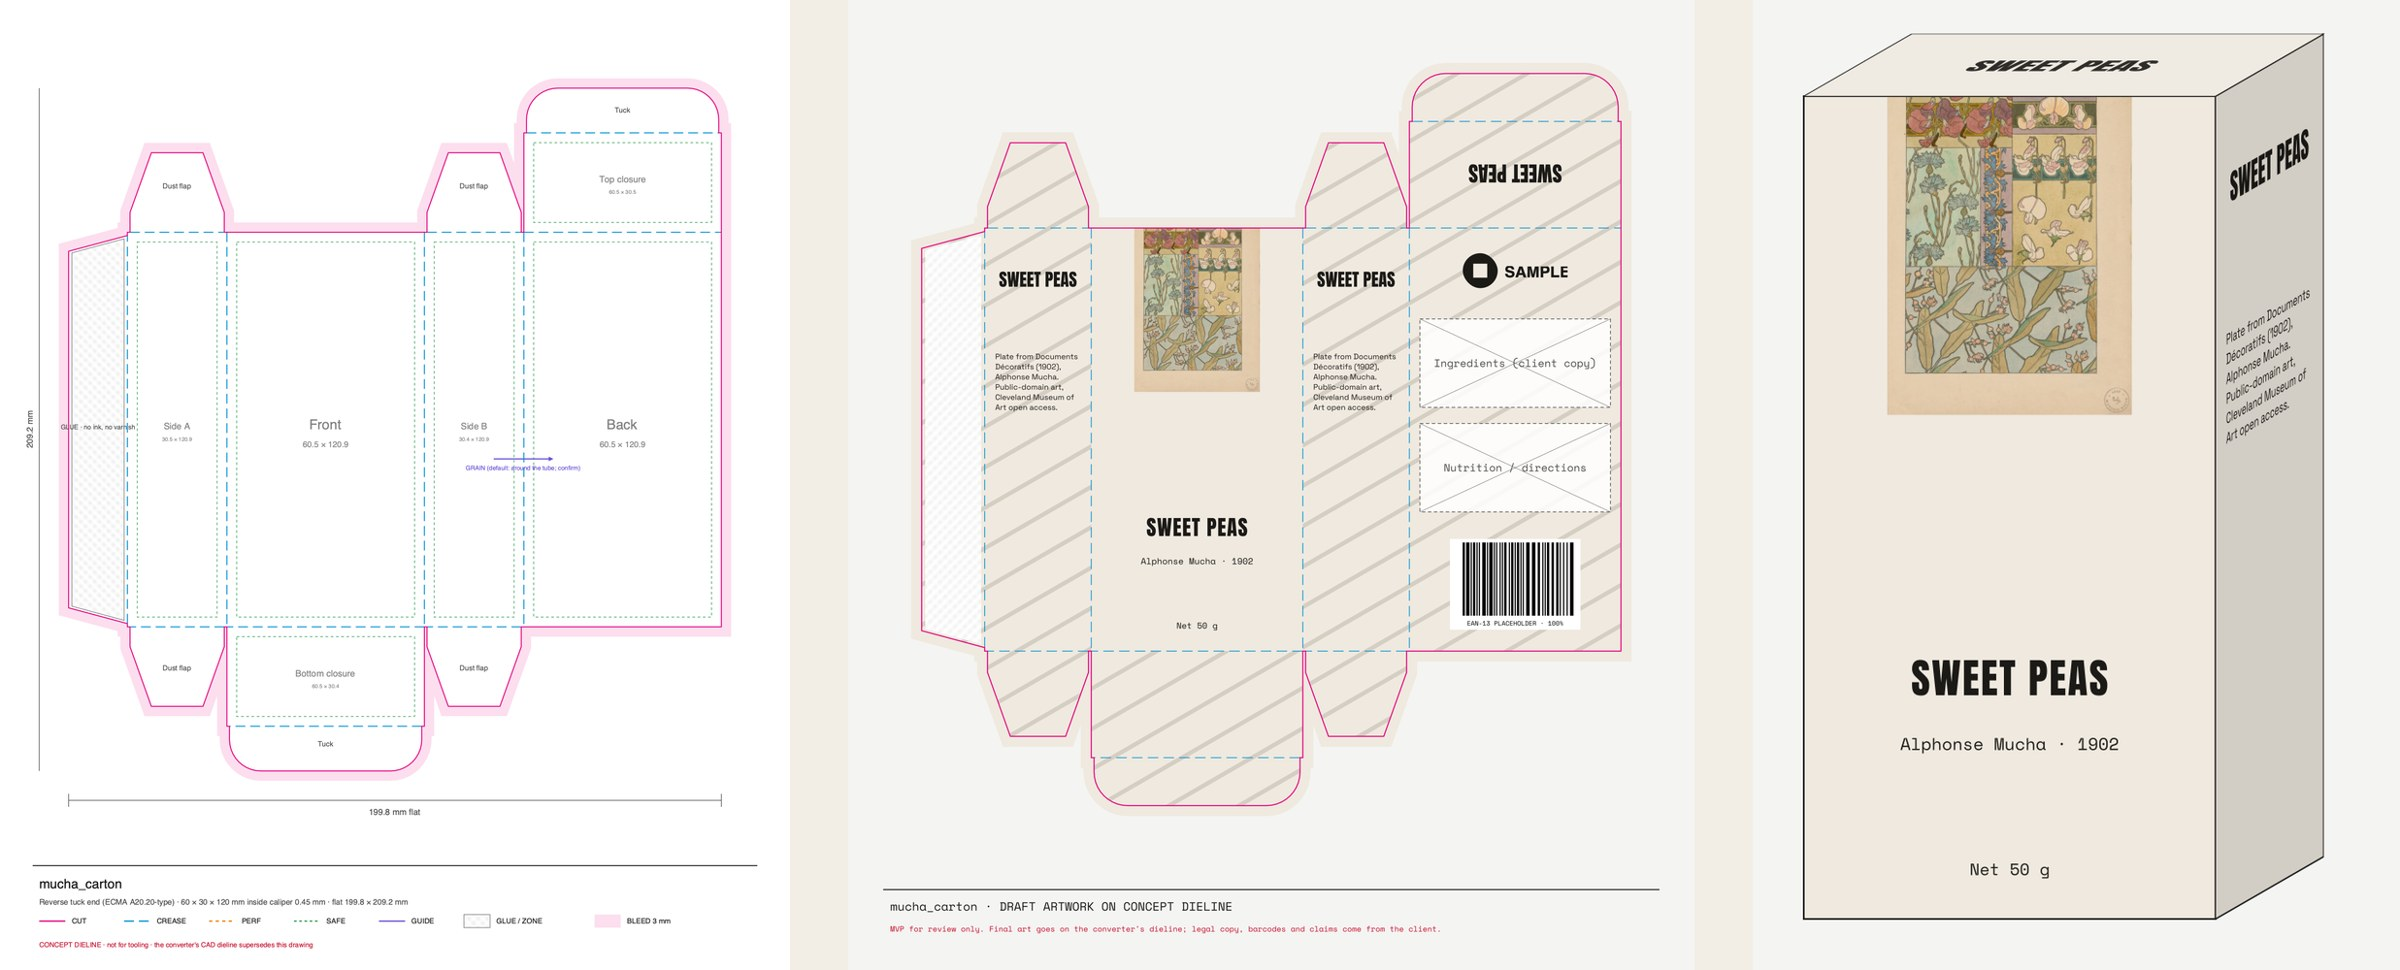
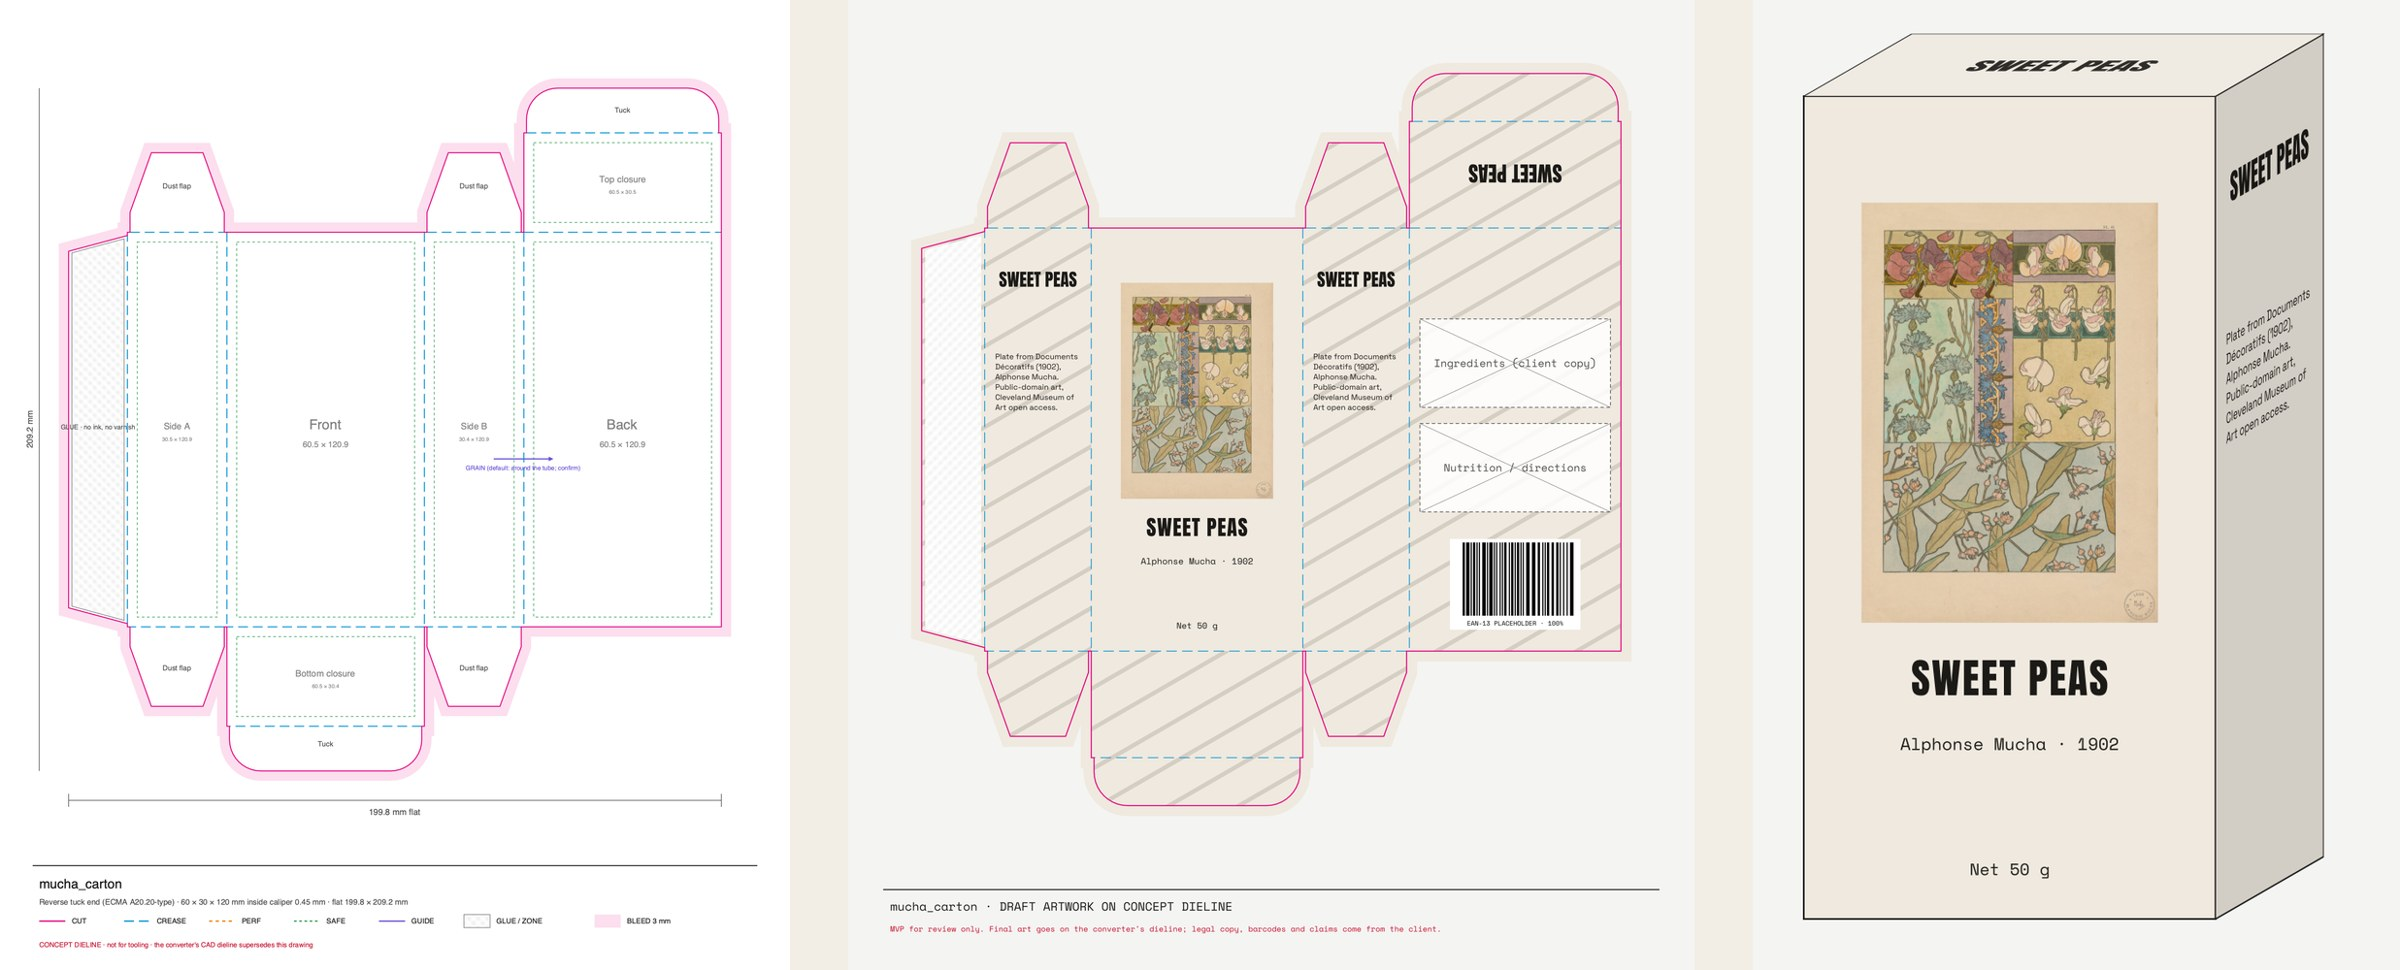
Point every kit at its engine; fix the pack spec the QA caught; add imageio-ffmpeg
- SKILL.md for nazar-type, -ooh, -social, -web, -motion and -dieline now describe their
  engines, how to run them, and their honest limits (without this Claude would not
  know to use them)
- Pack demo: the engine's P2 safe-area warning was RIGHT. A logo/image block's y is its
  CENTRE unless valign is "top"; my spec treated it as the top edge. Fixed (valign top,
  larger art), QA is now clean, the template's "SAMPLE" placeholder logo is removed,
  and the dieline SKILL.md documents the pitfall
- requirements.txt: imageio-ffmpeg (video.py, motion_check.py); rtmlib noted as optional
- pack and kits images regenerated

Changed region(s): [[0.75, 0.0928, 0.9062, 0.6495], [0.4688, 0.2165, 0.5312, 0.5258], [0.5938, 0.2474, 0.6562, 0.3093]]

diff --git a/nazar-type/SKILL.md b/nazar-type/SKILL.md
@@ -27,3 +27,6 @@ Read `../nazar-core/SKILL.md` first. **The user's prompt leads; use the parts th
 
 ## Files
 - `references/type.md`: sources and licences, OFL plain terms, South Asian scripts and pairing, which-font-when matrix, QA checklist, sources
+
+## Engine
+`python engine/type_check.py font.ttf [font2.ttf ...]` runs this kit's QA on real font files: licence and embedding as the file declares them, coverage per script (Latin, transliteration, pack symbols incl. the ₨ sign, Urdu, Sindhi, Devanagari), whether the Arabic-script shaping features exist (init/medi/fina/isol/liga/rlig), kerning, and the smallest size that reaches a 1.2 mm x-height (EU 1169/2011 Art. 13). Run it before recommending any font for a bilingual or packaging job. It checks the FILE: coverage % says nothing about whether the shapes are good. A font that carries no licence text still needs its OFL file filed beside it. Demo: `examples/make_type_card.py` (needs `pip install uharfbuzz`; fetch Gulzar with `examples/fetch_gulzar.py`).

diff --git a/nazar-dieline/SKILL.md b/nazar-dieline/SKILL.md
@@ -61,3 +61,7 @@ Needs CairoSVG and Pillow; uses the core engine's harfbuzz type when installed (
 - `references/sources.md`: every source, by topic
 - `templates/dieline.json`: engine examples (structures + 5 MVP drafts); `templates/STRUCTURE_SPEC.md`: the converter brief; `templates/sample_mark.svg`: a neutral stand-in mark
 - `EXTENDING.md`: how any user's Claude adds structures, art blocks and checks for their own product
+
+## Engines (besides dieline.py)
+- `engine/art.py`: the pack-art layer. Put real artwork on a structure through an `"art"` block (see `examples/mucha_carton.json`: a real CC0 plate on an RTE carton) and it writes the flat art, the folded view and a QA report. **Block positions: a `logo`/image block's `y` is its CENTRE unless you set `"valign": "top"`**; getting this wrong makes the art cross the safe area (the QA flags it, correctly). P1 = fix before showing anyone; P2 = fix before the converter.
+- `engine/figma.py`: writes the Figma build plan (`--figma`); see `FIGMA.md`.

diff --git a/nazar-ooh/SKILL.md b/nazar-ooh/SKILL.md
@@ -32,3 +32,6 @@ Read `../nazar-core/SKILL.md` first. Outdoor is read in seconds, at a distance, 
 - `references/formats.md`: formats and how to adapt one idea across them
 - `references/legibility.md`: distance, letter height, speed, contrast, testing
 - `references/production.md`: files, materials, installation, permits, documentation, QA
+
+## Engine
+`python engine/ooh_check.py "COPY" --distance-ft 300 --speed-mph 45 --cap-height-in 14 [--fg #hex --bg #hex]` checks whether copy can be read from the road: letter height (MUTCD 30 ft of distance per inch, or 40 for Clearview; x0.83 / x0.67 for busier layouts), the 20/20 eye-chart floor, contrast, and an estimated read time against the time in view. **The "7 words" rule and "6 seconds" are unsourced industry folklore: the engine says so, and so should you.** Viewing distance and speed are inputs: no authoritative outdoor figure exists. It cannot judge the design.

diff --git a/nazar-web/SKILL.md b/nazar-web/SKILL.md
@@ -31,3 +31,6 @@ Read `../nazar-core/SKILL.md` first. A brand site is the identity *in use*: it s
 - `references/structure.md`: sitemap, page types, landing page anatomy, copy rules
 - `references/system.md`: tokens, responsive type, grid and breakpoints, components, art direction, motion on the web
 - `references/handoff.md`: accessibility, performance, SEO basics, developer handoff, QA
+
+## Engine
+`python engine/web_audit.py page.html` audits one static page: `<html lang>`, title, viewport, exactly one h1, no skipped heading levels, alt on every image, width/height (layout shift), images more than 2x their displayed width, link text, and WCAG contrast of the declared text colour. It reports page weight rather than grading it (no universal budget exists). It has no network or rendering, so real-device speed and design quality still need Lighthouse and a human.

diff --git a/nazar-social/SKILL.md b/nazar-social/SKILL.md
@@ -34,3 +34,6 @@ Read `../nazar-core/SKILL.md` and `../nazar-core/references/kaif.md` (especially
 - `references/system.md`: platform specs and safe zones, profile, grid, templates, type and colour on screens
 - `references/content.md`: hooks, reel structures, captions, hashtags, launch plan, calendar
 - `references/playbook.md`: the team playbook contents, community rules, metrics, the slop test, QA
+
+## Engine
+`python engine/social_lint.py caption.txt` (or `-` for stdin) is the slop test as code: stock phrases (elevate, journey, unlock, seamless, leverage, delve…), "not just X but Y", triads, em-dashes, emoji and hashtag counts. A hit is a prompt to rewrite, never proof a post is machine-written (people write "elevate" too), and a clean result doesn't make a post good. Run it on every caption before showing the client.

diff --git a/nazar-motion/SKILL.md b/nazar-motion/SKILL.md
@@ -31,3 +31,6 @@ Read `../nazar-core/SKILL.md` first. Motion is how the brand behaves. It should 
 - `references/system.md`: easing, durations, transitions, choreography, typography in motion, tokens
 - `references/craft.md`: animation principles, logo animation patterns, storyboards, sound, cinematic devices
 - `references/delivery.md`: export matrix, developer handoff, QA
+
+## Engine
+`python engine/motion_check.py clip.mp4` measures how a clip actually moves (needs `pip install imageio-ffmpeg`): peak speed against end speed (slow in and slow out, Thomas & Johnston 1981), the length of the move, and the holds before and after. Linear reads about 1x; eased reads well above. It measures, it doesn't prescribe durations: no authoritative duration norms were verified, so judge those against the brief.
